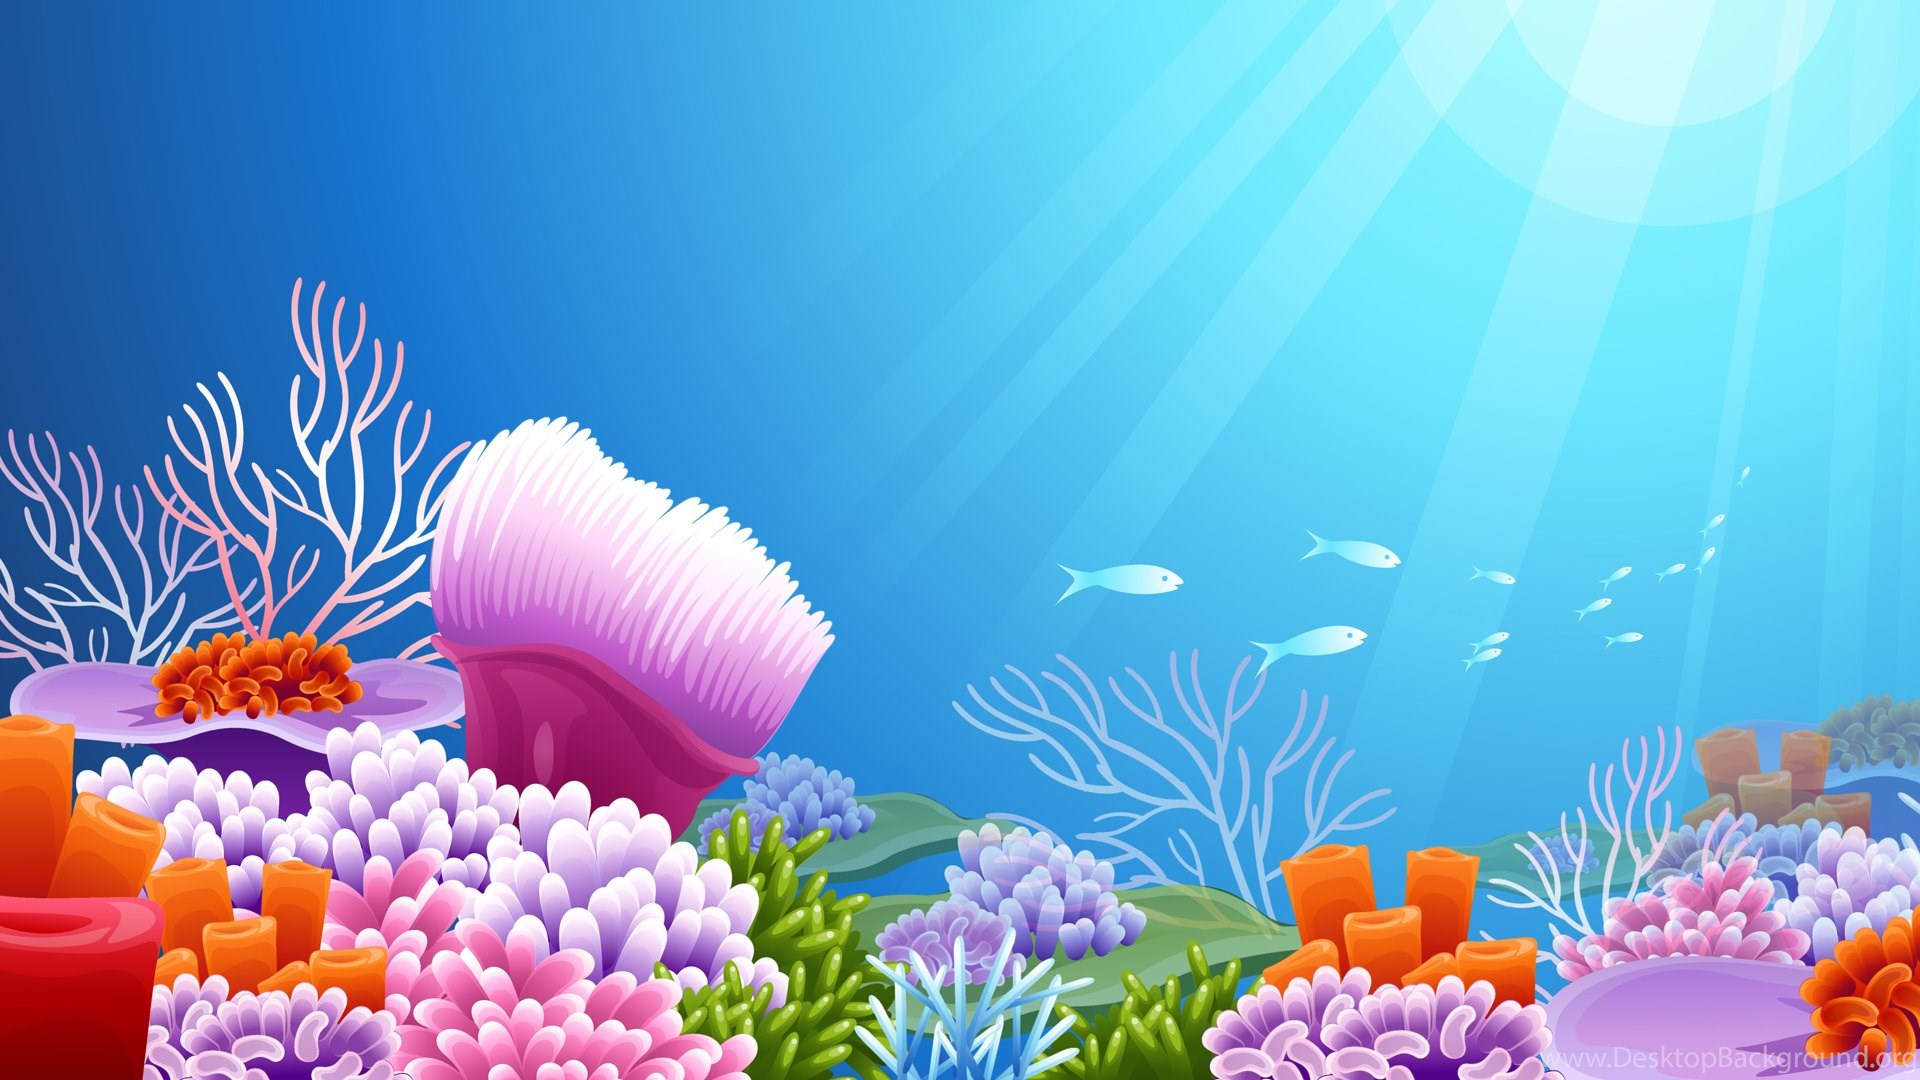
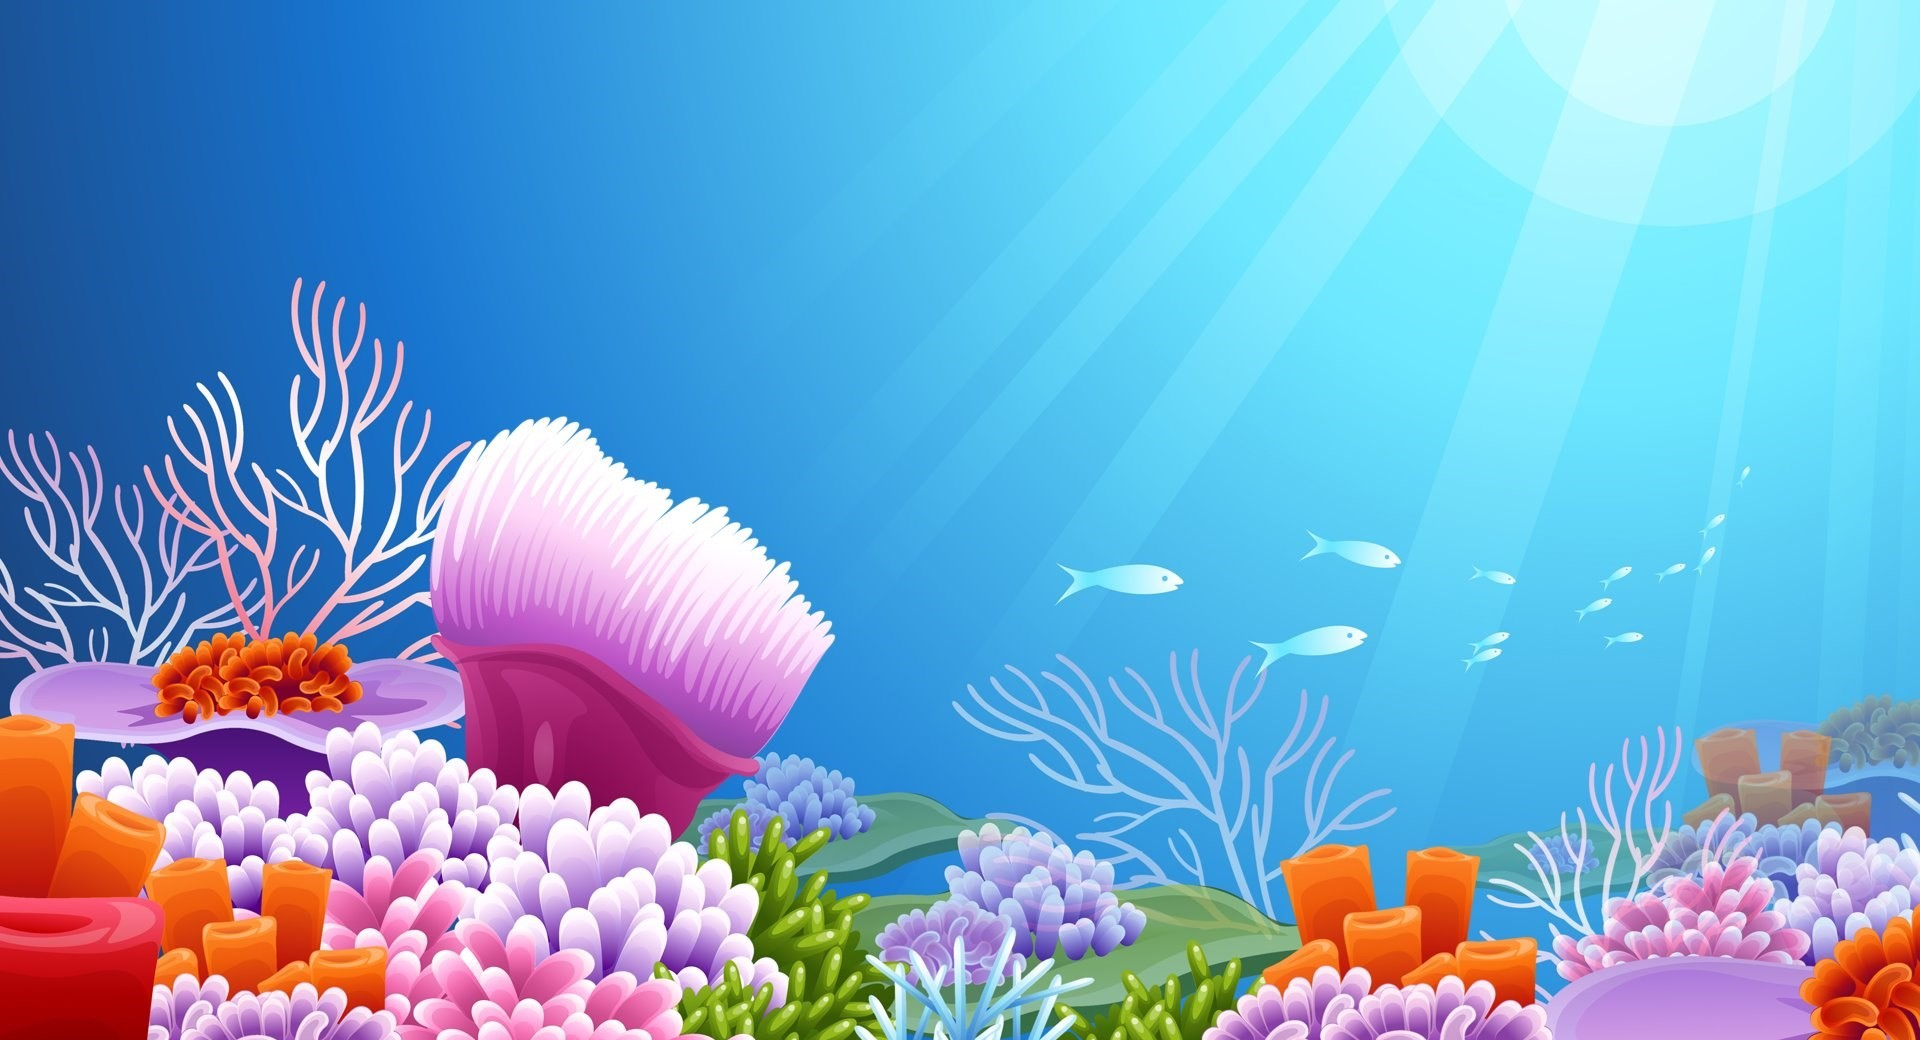
Sfondi reimpostati

diff --git a/front-end/angularclient/src/app/leaderboard-page/leaderboard-page.component.css b/front-end/angularclient/src/app/leaderboard-page/leaderboard-page.component.css
@@ -86,7 +86,7 @@ body {
   /*sfondo dell'intero schermo*/
   background-image: url("../../assets/pictures_of_leaderboard_page/underwater.jpg");
   background-repeat: no-repeat;
-  background-position: top;
+  background-position: bottom;
   background-size: cover;
   height: 625px;
 }
